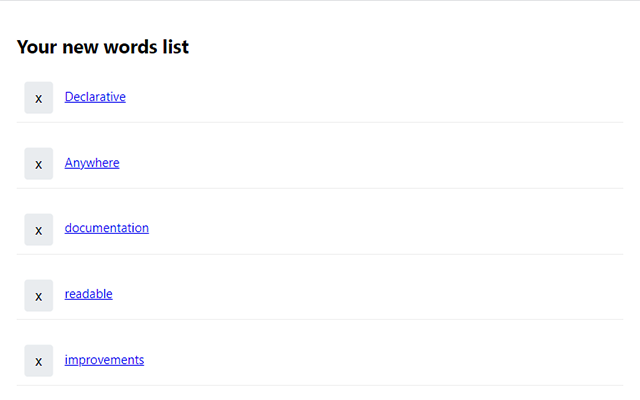
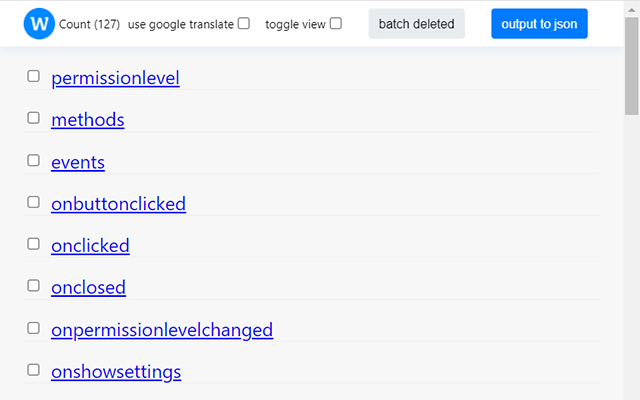
refactor

diff --git a/lib.js b/lib.js
@@ -31,7 +31,7 @@ async function createWordDom(word) {
 
   dom.innerHTML = `
 <div class="display-flex flex-center">
-  <button class="btn small rm-word">Delete</button>
+  <input type="checkbox">
   <a class="ml-2 word-text" href=${detailLink} target="_blank">${word.text}</a>
 </div>
 `;
@@ -69,17 +69,54 @@ async function getWords() {
   });
 }
 
-async function deleteWord(id, words) {
-  const _confirm = window.confirm("Do you really want to delete this word?");
-
-  if (!_confirm) {
-    return;
-  }
-
-  const filteredWords = words.filter((it) => it.id !== id);
-  return updateWords(filteredWords);
+function sendNotification(message) {
+  chrome.notifications.create(`${generateUID()}`, {
+    message: message,
+    title: "collect new english words",
+    type: "basic",
+    iconUrl: "images/icon-64x64.png",
+  });
 }
 
+/**
+ *
+ * @param {string} str
+ * @param {Array} words
+ * @return {Promise<string>}
+ */
+async function addWord(str, words) {
+  let _str = str.trim();
+
+  _str = _str.toLowerCase();
+  const arr = _str.split(" ").filter((it) => it.length > 0);
+
+  const duplicate = [];
+  const needAdded = [];
+
+  for (let text of arr) {
+    const index = words.findIndex((it) => it.text === text);
+    index !== -1 ? duplicate.push(text) : needAdded.push(text);
+  }
+
+  if (duplicate.length > 0) {
+    sendNotification(`<${duplicate.join(", ")}> is already collected.`);
+  }
+
+  const _newWords = needAdded.map((text) => {
+    return {
+      id: generateUID(),
+      text: text,
+    };
+  });
+
+  return updateWords([..._newWords, ...words]);
+}
+
+/**
+ *
+ * @param words
+ * @return {Promise<string>}
+ */
 async function updateWords(words) {
   return new Promise((resolve, reject) => {
     chrome.storage.sync.set(
@@ -93,50 +130,15 @@ async function updateWords(words) {
   });
 }
 
-function sendNotification(message) {
-  chrome.notifications.create(`${generateUID()}`, {
-    message: message,
-    title: "collect new english words",
-    type: "basic",
-    iconUrl: "images/icon-64x64.png",
+/**
+ *
+ * @param {Array} ids
+ * @return {Promise<string>}
+ */
+async function deleteWordByIds(ids) {
+  const words = await getWords();
+  const filteredWords = words.filter((it) => {
+    return !ids.includes(it.id);
   });
-}
-
-async function addWord(text, words) {
-  let _word = text.trim();
-  if (!_word) {
-    return;
-  }
-
-  _word = _word.toLowerCase();
-
-  const index = words.findIndex((it) => it.text === text);
-
-  if (index !== -1) {
-    sendNotification(`**${_word}** is already collected.`);
-    return;
-  }
-
-  const _words = [...words];
-  _words.push({
-    id: generateUID(),
-    text: _word,
-  });
-  return updateWords(_words);
-}
-
-function AddDeleteListener(words) {
-  document.querySelector(`#words`).addEventListener("click", (e) => {
-    const target = e.target;
-    const classList = Array.from(target.classList);
-    if (classList.includes("rm-word")) {
-      const parent = target.closest(".word");
-      const id = parent.dataset.id;
-      if (id) {
-        deleteWord(id, words).then((r) => {
-          location.reload();
-        });
-      }
-    }
-  });
+  return await updateWords(filteredWords);
 }

diff --git a/options.js b/options.js
@@ -1,22 +1,26 @@
 const dom = document.querySelector("#words");
 
 getWords().then(async (words) => {
-  console.log("words", words);
   const titleDom = document.querySelector("#words-count");
   titleDom.textContent = `Count (${words.length})`;
+
+  if (words.length === 0) {
+    const d = document.createElement("div");
+    d.classList.add("no-words");
+    d.textContent = `No collected words!`;
+    dom.appendChild(d);
+    return;
+  }
 
   for (let word of words) {
     dom.appendChild(await createWordDom(word));
   }
 
   getTranslateVendor().then((r) => {
-    console.log("getTranslateVendor", r);
     if (r === "google") {
       document.querySelector("#use-google-translate").checked = true;
     }
   });
-
-  AddDeleteListener(words);
 });
 
 document
@@ -32,16 +36,54 @@ document.querySelector("#toggle-view").addEventListener("change", (event) => {
   document.querySelector("#words").classList.toggle("words-list-2-c");
 });
 
+document.querySelector("#delete-batch").addEventListener("click", (event) => {
+  const checkedInputs = document.querySelectorAll("#words input:checked");
+  const items = Array.from(checkedInputs).map((it) => {
+    const dataset = it.closest(".word[data-id]").dataset;
+    return {
+      id: dataset.id,
+      text: dataset.text,
+    };
+  });
+
+  if (items.length <= 0) {
+    return;
+  }
+
+  const ids = items.map((it) => it.id);
+  const texts = items.map((it) => it.text);
+
+  const _confirm = window.confirm(
+    `Do you really want to delete <${texts.join(",")}> words?`
+  );
+
+  if (!_confirm) {
+    return;
+  }
+
+  deleteWordByIds(ids).then((r) => {
+    location.reload();
+  });
+});
+
 document.querySelector("#output-to-json").addEventListener("click", (event) => {
   getWords().then((words) => {
+    if (words.length === 0) {
+      sendNotification(`There is no collected words for export!`);
+      return;
+    }
+
     const _words = words.map((item) => item.text);
-    const data = JSON.stringify(_words);
+    const data = JSON.stringify(_words, null, 4);
     const blob = new Blob([data], { type: "application/json" });
     const url = URL.createObjectURL(blob);
 
     const link = document.createElement("a");
     link.href = url;
-    link.setAttribute("download", "collect-new-english-words.json");
+    link.setAttribute(
+      "download",
+      `collect-new-english-words-${generateUID()}.json`
+    );
     document.body.appendChild(link);
     link.click();
     document.body.removeChild(link);

diff --git a/background.js b/background.js
@@ -15,6 +15,9 @@ chrome.contextMenus.onClicked.addListener(function (itemData) {
     console.log(itemData);
     getWords().then((words) => {
       const selectionText = itemData.selectionText;
+      if (!selectionText) {
+        return;
+      }
       addWord(selectionText, words).then((r) => console.log(r));
     });
   }

diff --git a/options.html b/options.html
@@ -28,6 +28,7 @@
       </div>
 
       <div class="right">
+        <button class="btn small" id="delete-batch">batch deleted</button>
         <button class="btn small nowrap primary" id="output-to-json">
           output to json
         </button>

diff --git a/gulpfile.js b/gulpfile.js
@@ -18,7 +18,7 @@ function copyDependencies() {
 function zipFiles() {
   const zipFiles = [
     "images/*",
-    "vendor/*",
+    "vendor/**/*",
     "background.js",
     "lib.js",
     "main.css",

diff --git a/main.css b/main.css
@@ -37,6 +37,10 @@ body {
 
 /* options.html */
 
+.no-words {
+  text-align: center;
+}
+
 .options-body {
   background-color: #f7f7f7;
 }
